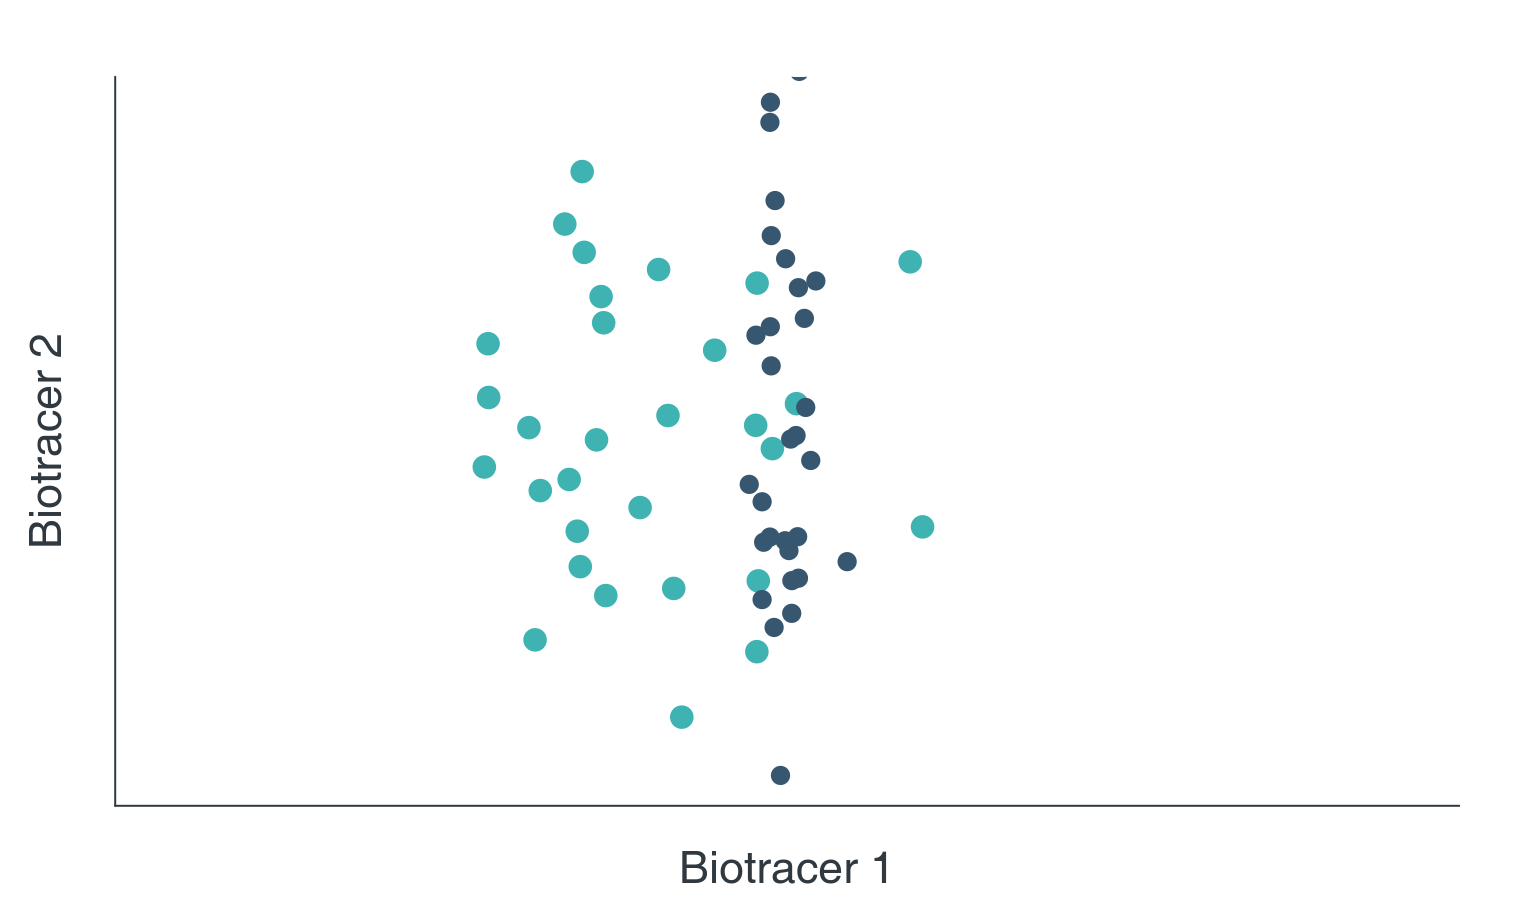
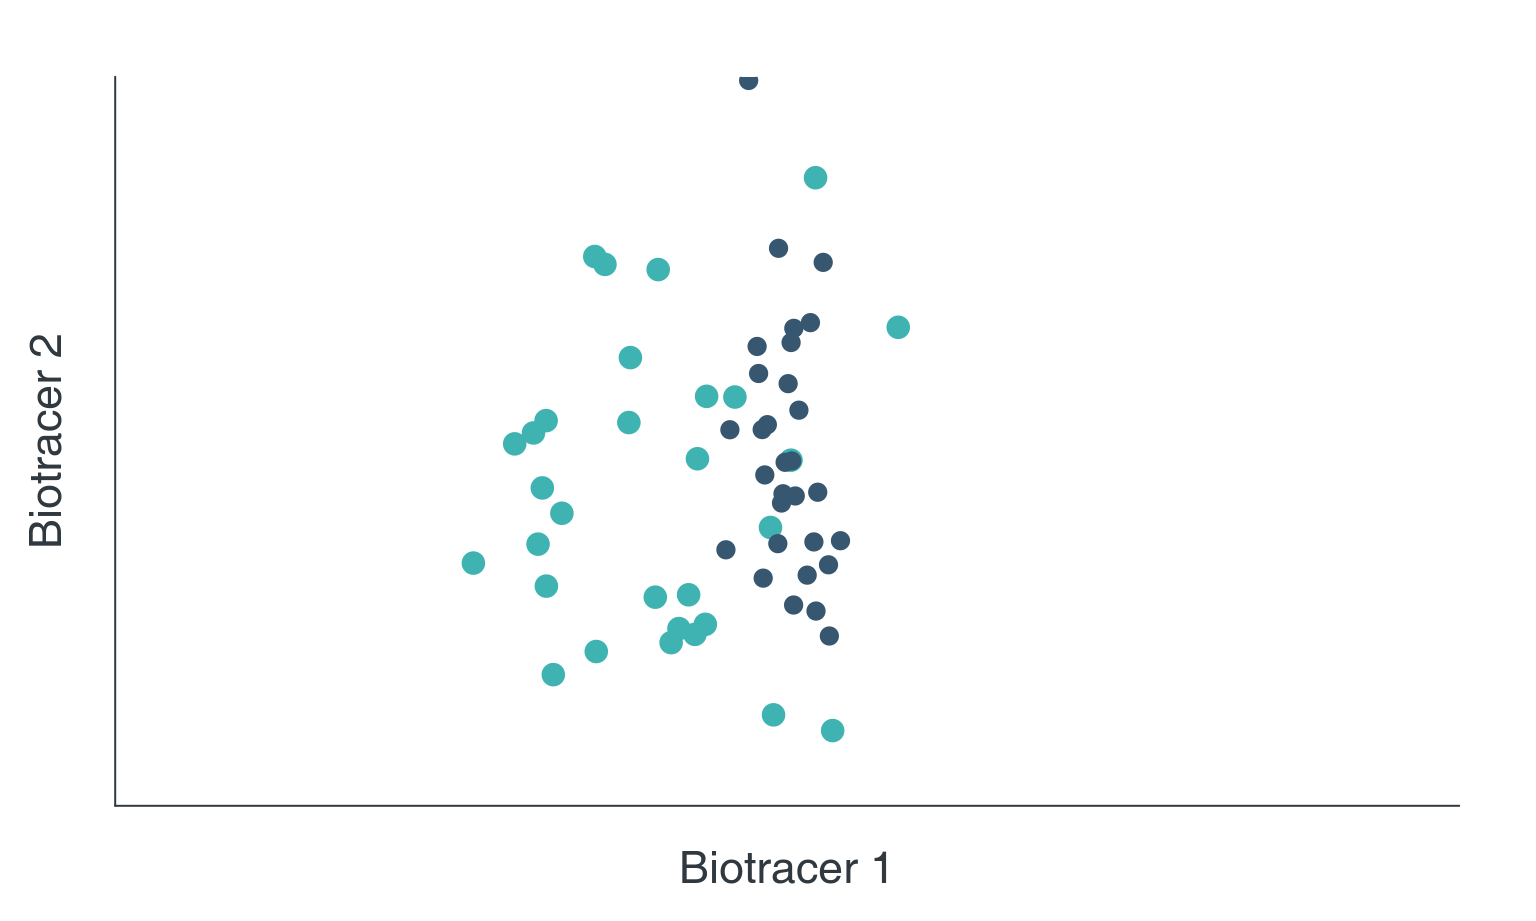
figA1 and A2 help in theory

diff --git a/index.html b/index.html
@@ -137,7 +137,7 @@ Seafood Labelling Requirements](http://www.seachoice.org/wp-content/uploads/2017
 - gut contents,
 - etc.
 
-#### to create a spatial fingerprints
+#### to create spatial fingerprints
 
 
 ---
@@ -160,51 +160,48 @@ analytical technique.
 
 &lt;br&gt;
 
-## Where a given sample come from?
+## Where does this sample come from?
 
 --
 
 &lt;br&gt;
 
-####  ![:faic](angle-double-right )How to combine multiple source of information in this context?
+####  ![:faic](angle-double-right ) Why should we combine multiple sourcse of information in this context?
 
 
-&lt;!-- https://www.alaskankingcrab.com/blogs/resources/blog-learn-fishing-for-king-crab --&gt;
 
 
 
 ---
-# Study case
+# Study case - King Crab
 
 --
 
 &lt;br&gt;
 
-![](img/mapKC.png)
+![](img/fig_map1.png)
 
-1. Bering sea
-2. Okhotsk sea
-3. Barents sea
+##### 1- Bering sea &amp;nbsp;&amp;nbsp; 2. Barents sea &amp;nbsp;&amp;nbsp; 3. Okhotsk sea
 
+--
+#### ![:faic](arrow-right) So... 1, 2, or 3?
 
 ---
-# Study case
+# Study case - King Crab
+
+#### Has it been caught illegaly?
+
+&gt; [For decades, Alaska crabbers have competed against king crab illegally caught by Russian fleets.](https://thefishsite.com/articles/alaska-fish-factor-king-crab-fishers-welcome-crack-down-on-illegal-fishing)
+
+- illegal area / unauthorized fleets
+- illegal, unreported and unregulated (IUU) fishing has tremendous economical consequences
 
 #### Where does this lot of King crab come from?
 
 - [consumer right-to-know](http://thehill.com/blogs/congress-blog/education/214268-consumers-have-a-right-to-know-where-their-food-comes-from)
 - sustainable fishery?
 
---
-
-&lt;br&gt;
-
-#### Has it been caught illegaly?
-
-- illegal zone of fishery
-- [caught by people who shouldn't fish there](https://thefishsite.com/articles/alaska-fish-factor-king-crab-fishers-welcome-crack-down-on-illegal-fishing)
-
-
+&lt;!-- https://www.alaskankingcrab.com/blogs/resources/blog-learn-fishing-for-king-crab --&gt;
 
 
 
@@ -220,7 +217,7 @@ class: inverse, center, middle
 
 &lt;br&gt;
 
-#### One distribution:
+
 
 ##### - per biotracer
 
@@ -228,23 +225,42 @@ class: inverse, center, middle
 
 &lt;!--need to define what is a meningful geographic area  --&gt;
 
-&lt;br&gt;
+
+---
+# Basic ideas - multiple origins
+
+&lt;img src="index_files/figure-html/figA1-1.png" width="768" style="display: block; margin: auto;" /&gt;
+
+---
+# Basic ideas - multiple origins
+
+&lt;img src="index_files/figure-html/figA2-1.png" width="768" style="display: block; margin: auto;" /&gt;
 
 --
 
-#### .alert[Distributions are known]
-
-##### - do not waste data
-
-##### - build relevant data base
+#### One distribution per area*biotracer
 
 
 ---
 # Basic ideas - multiple origins
 
-
-
 &lt;img src="index_files/figure-html/fig0-1.png" width="768" style="display: block; margin: auto;" /&gt;
+
+
+
+---
+# Basic ideas - multiple origins
+
+&lt;br&gt;
+
+### .alert[Distributions are known]
+
+--
+
+### do not waste data, build relevant database!
+
+
+
 
 
 ---
@@ -540,21 +556,48 @@ class: inverse, center, middle
 
 
 ---
-# King Crab - data
+# King Crab - isoscapes
 
-![](img/mapKC.png)
+&lt;br&gt;
+
+![](img/fig_map1a.png)
+
+- ![:faic](external-link) [Global Seawater Oxygen-18 Databass](https://data.giss.nasa.gov/o18data/grid.html)
+
+---
+# King Crab - isoscapes
+
+&lt;br&gt;
+
+![](img/fig_map2a.png)
+
+- ![:faic](file-text) Magozzi, S., et al. (2017) [Using ocean models to predict spatial and temporal variation in marine carbon isotopes.](https://data.giss.nasa.gov/o18data/grid.html) *Ecosphere*
+
+
+---
+# King Crab - isoscapes
+
+&lt;br&gt;
+
+## ![:faic](arrow-right) δ&lt;sup&gt;15&lt;/sup&gt;O + δ&lt;sup&gt;13&lt;/sup&gt;C
+
+&lt;br&gt;
+
+## ![:faic](arrow-right) cor(δDp, δ&lt;sup&gt;15&lt;/sup&gt;O) = .99
 
 
 ---
 # King Crab - assumptions
 
-![](img/mapKC.png)
+&lt;br&gt;
 
-- No temporal variation
+#### - The sample is from one of the three areas
 
-- Known relatioship between isoscape and tissue ratio
+#### - No temporal variation
 
-- No mixture
+#### - Regual relatioship sample ![:faic](arrow-right) isosca pe
+
+#### - No mixture
 
 
 ---
@@ -624,7 +667,7 @@ class: inverse, center, middle
 
 --
 
-### -[Biodiversity Resilience Network](http://birn.editmy.website/)
+### - [Biodiversity Resilience Network](http://birn.editmy.website/)
 
 ![:scalec 26%](img/BiRN_logo.png)
 
